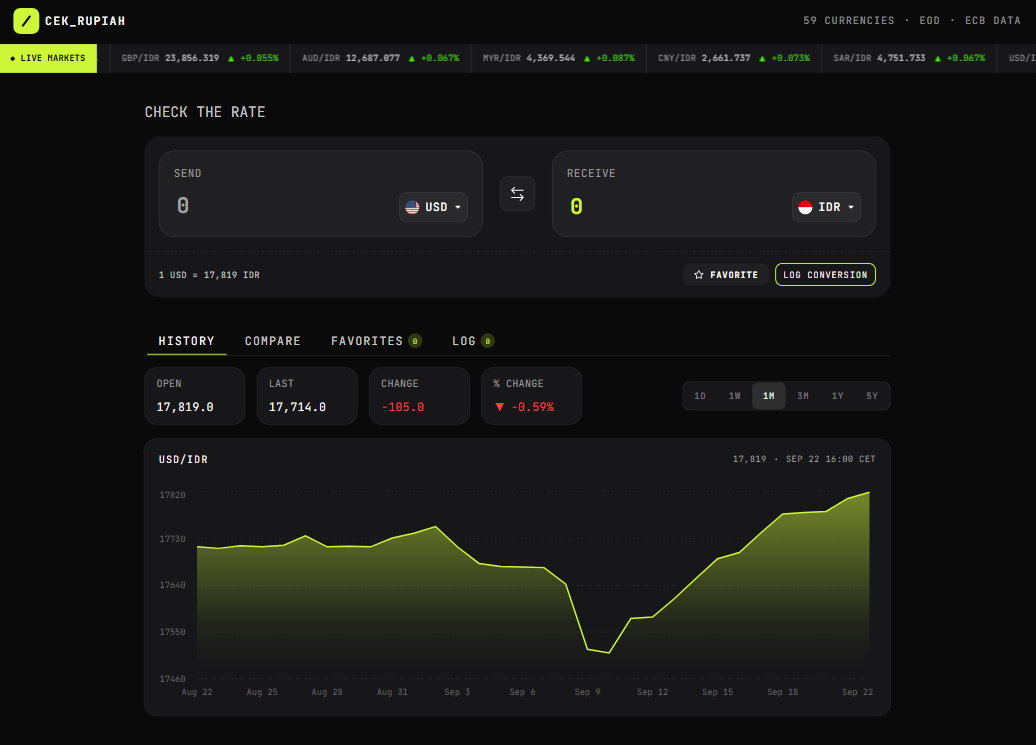
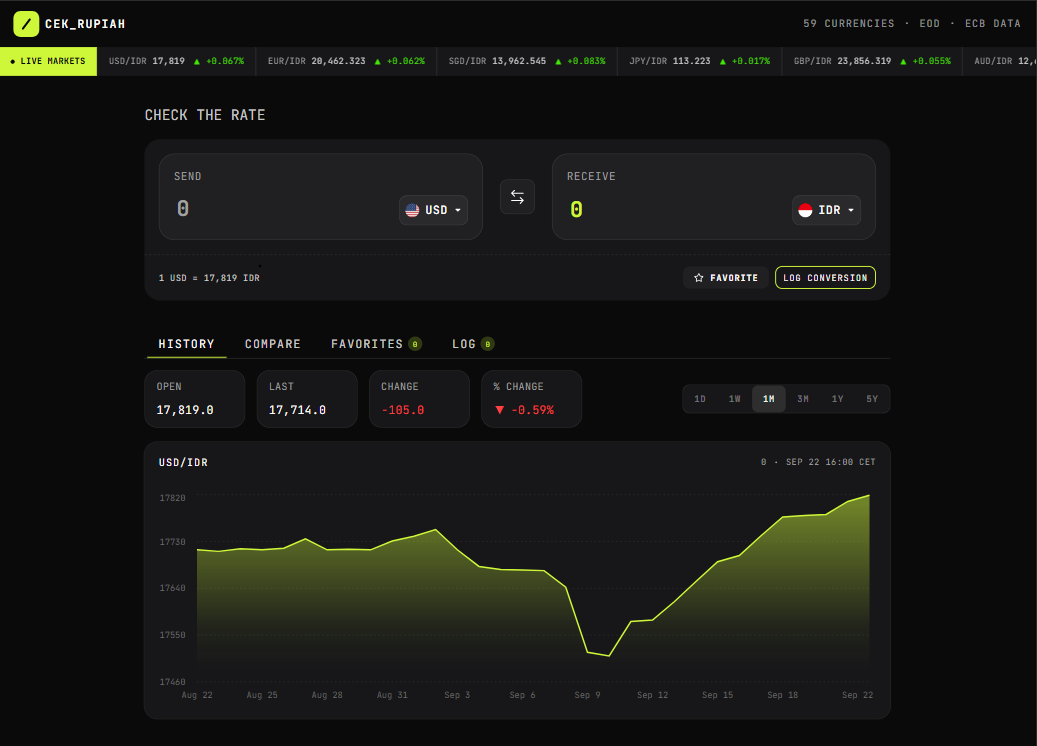
Optimizing preview image

diff --git a/src/app/layout.tsx b/src/app/layout.tsx
@@ -33,7 +33,7 @@ export const metadata: Metadata = {
     description: "Convert currencies and analyze historical trends with our interactive charts.",
     images: [
       {
-        url: "/og-image.jpg",
+        url: "/og-image.png",
         width: 1200,
         height: 630,
         alt: "Currency Tracker Dashboard",
@@ -45,7 +45,7 @@ export const metadata: Metadata = {
     card: "summary_large_image",
     title: "Currency Tracker | Exchange Rates",
     description: "Real-time currency conversion and historical data visualization.",
-    images: ["/og-image.jpg"],
+    images: ["/og-image.png"],
     creator: "@cekrupiah",
   },
 
